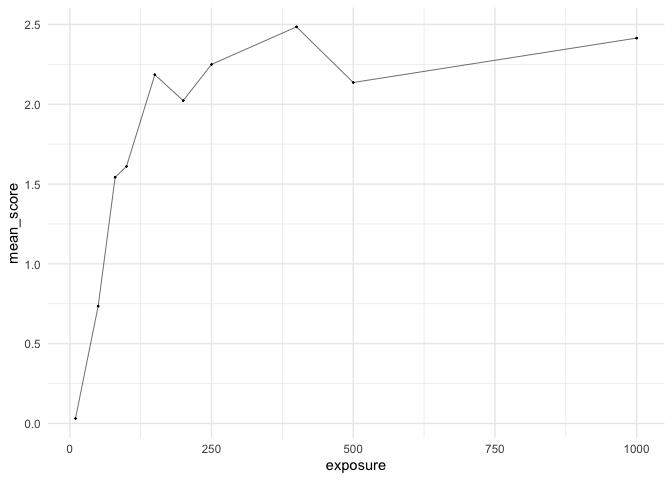
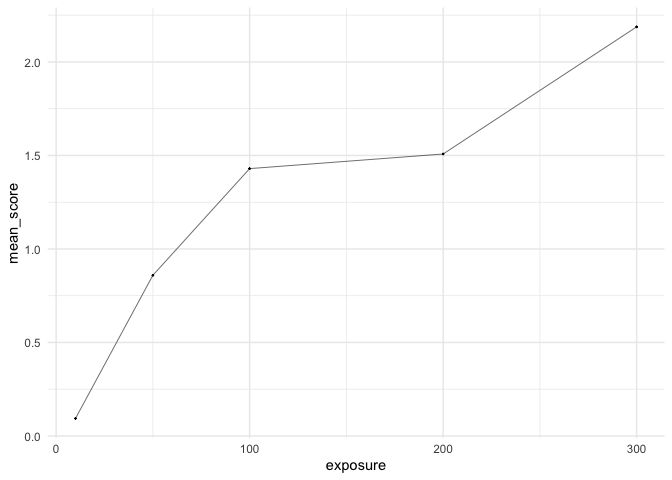
Update README

diff --git a/README.md b/README.md
@@ -25,16 +25,6 @@ Load the R package:
 
 ``` r
 library(RStanTVA)
-#> Loading required package: dplyr
-#> 
-#> Attaching package: 'dplyr'
-#> The following objects are masked from 'package:stats':
-#> 
-#>     filter, lag
-#> The following objects are masked from 'package:base':
-#> 
-#>     intersect, setdiff, setequal, union
-#> Loading required package: readr
 #> Loading required package: rstan
 #> Loading required package: StanHeaders
 #> 
@@ -46,34 +36,44 @@ library(RStanTVA)
 #> For within-chain threading using `reduce_sum()` or `map_rect()` Stan functions,
 #> change `threads_per_chain` option:
 #> rstan_options(threads_per_chain = 1)
-#> Loading required package: tidyr
-#> 
-#> Attaching package: 'tidyr'
-#> The following object is masked from 'package:rstan':
-#> 
-#>     extract
-#> Loading required package: tibble
-#> Loading required package: cli
+library(tidyverse)
+#> ── Attaching core tidyverse packages ──────────────────────── tidyverse 2.0.0 ──
+#> ✔ dplyr     1.1.4     ✔ readr     2.1.5
+#> ✔ forcats   1.0.0     ✔ stringr   1.5.1
+#> ✔ ggplot2   3.5.0     ✔ tibble    3.2.1
+#> ✔ lubridate 1.9.3     ✔ tidyr     1.3.1
+#> ✔ purrr     1.0.2
+#> ── Conflicts ────────────────────────────────────────── tidyverse_conflicts() ──
+#> ✖ tidyr::extract() masks rstan::extract()
+#> ✖ dplyr::filter()  masks stats::filter()
+#> ✖ dplyr::lag()     masks stats::lag()
+#> ℹ Use the conflicted package (<http://conflicted.r-lib.org/>) to force all conflicts to become errors
 ```
 
 Load example data from the parameter recovery study:
 
 ``` r
-tva_file_name <- file.path(find.package("RStanTVA"), "extdata", "recovery", paste0("recovery_120.dat"))
-tva_data <- read_tva_data(tva_file_name)
+tva_data <- tva_recovery %>% filter(subject == 20)
 tva_data
-#> TVA data containing 400 whole- and/or partial-report trial(s)
-#> Formal class 'tvadata' [package "RStanTVA"] with 1 slot
-#>   ..@ .Data:List of 8
-#>   .. ..$ : int [1:400] 11 29 54 16 51 27 2 43 34 52 ...
-#>   .. ..$ : int [1:400, 1:6] 1 1 1 1 1 0 0 0 0 0 ...
-#>   .. ..$ : int [1:400, 1:6] 0 0 0 0 1 0 0 0 0 0 ...
-#>   .. ..$ : chr [1:400, 1:6] "A" "I" "O" "N" ...
-#>   .. ..$ : num [1:400] 50 150 500 80 500 150 10 400 200 500 ...
-#>   .. ..$ : int [1:400, 1:6] 0 0 1 0 0 0 0 0 0 0 ...
-#>   .. ..$ : int 400
-#>   .. ..$ : int 6
-#>   ..$ names: chr [1:8] "condition" "S" "D" "items" ...
+#> # A tibble: 512 × 9
+#> # Groups:   subject [1]
+#>    subject trial     T condition type  S[,1]  [,2] D[,1] R[,1] true_values$t[,1]
+#>      <int> <int> <dbl> <fct>     <fct> <int> <int> <int> <int>             <dbl>
+#>  1      20     1    10 high      WR        1     1     0     0              26.1
+#>  2      20     2    10 low       WR        1     1     0     0              56.4
+#>  3      20     3    50 high      WR        1     1     0     0             139. 
+#>  4      20     4    50 high      PR        1     1     0     0              72.6
+#>  5      20     5    50 low       WR        1     1     0     0              62.9
+#>  6      20     6    50 low       PR        1     1     0     0              95.7
+#>  7      20     7   100 high      WR        1     1     0     1              37.8
+#>  8      20     8   100 high      PR        1     1     1     0             118. 
+#>  9      20     9   100 low       WR        1     1     0     0             125. 
+#> 10      20    10   100 low       PR        1     1     1     0              77.3
+#> # ℹ 502 more rows
+#> # ℹ 13 more variables: S[3:4] <int>, D[2:4] <int>, R[2:4] <int>,
+#> #   true_values$t[2:6] <dbl>, true_values$v <dbl[,6]>, $t0 <dbl>, $K <int>,
+#> #   $C <dbl>, $alpha <dbl>, $w <dbl[,4]>, $mu0 <dbl>, $sigma0 <dbl>,
+#> #   $pK <dbl[,5]>
 ```
 
 Create a report and visualize the scores:
@@ -81,31 +81,21 @@ Create a report and visualize the scores:
 ``` r
 tva_data_report <- tva_report(tva_data)
 tva_data_report
-#> # A tibble: 400 × 6
+#> # A tibble: 512 × 6
 #>    condition exposure score n_items n_distractors n_targets
-#>        <int>    <dbl> <int>   <int>         <int>     <int>
-#>  1        11       50     0       6             3         3
-#>  2        29      150     2       6             3         3
-#>  3        54      500     6       6             0         6
-#>  4        16       80     1       4             0         4
-#>  5        51      500     2       4             2         2
-#>  6        27      150     2       4             2         2
-#>  7         2       10     0       2             0         2
-#>  8        43      400     1       2             1         1
-#>  9        34      200     3       4             0         4
-#> 10        52      500     3       4             0         4
-#> # ℹ 390 more rows
+#>    <fct>        <dbl> <int>   <int>         <int>     <int>
+#>  1 high            10     0       4             0         4
+#>  2 low             10     0       4             0         4
+#>  3 high            50     1       4             0         4
+#>  4 high            50     0       4             2         2
+#>  5 low             50     1       4             0         4
+#>  6 low             50     0       4             2         2
+#>  7 high           100     4       4             0         4
+#>  8 high           100     0       4             2         2
+#>  9 low            100     2       4             0         4
+#> 10 low            100     2       4             2         2
+#> # ℹ 502 more rows
 
-library(tidyverse)
-#> ── Attaching core tidyverse packages ──────────────────────── tidyverse 2.0.0 ──
-#> ✔ forcats   1.0.0     ✔ purrr     1.0.2
-#> ✔ ggplot2   3.5.0     ✔ stringr   1.5.1
-#> ✔ lubridate 1.9.3     
-#> ── Conflicts ────────────────────────────────────────── tidyverse_conflicts() ──
-#> ✖ tidyr::extract() masks rstan::extract()
-#> ✖ dplyr::filter()  masks stats::filter()
-#> ✖ dplyr::lag()     masks stats::lag()
-#> ℹ Use the conflicted package (<http://conflicted.r-lib.org/>) to force all conflicts to become errors
 
 tva_data_report %>%
   group_by(exposure) %>%
@@ -125,44 +115,42 @@ Gaussian $t_0$ and a free $K$ distribution:
 library(RStanTVA)
 
 tva_model <- stantva_model(
-  location = 6,
+  location = 4,
   task = "pr",
   w_mode = "locations",
   t0_mode = "gaussian",
   K_mode = "free",
-  predict = TRUE
+  sanity_checks = FALSE,
+  priors = FALSE
 )
 #> Trying to compile a simple C file
 #> Running /Library/Frameworks/R.framework/Resources/bin/R CMD SHLIB foo.c
-#> using C compiler: ‘Apple clang version 15.0.0 (clang-1500.3.9.4)’
-#> using SDK: ‘MacOSX14.4.sdk’
+#> using C compiler: ‘Apple clang version 16.0.0 (clang-1600.0.26.4)’
+#> using SDK: ‘MacOSX15.1.sdk’
 #> clang -arch arm64 -I"/Library/Frameworks/R.framework/Resources/include" -DNDEBUG   -I"/Library/Frameworks/R.framework/Versions/4.3-arm64/Resources/library/Rcpp/include/"  -I"/Library/Frameworks/R.framework/Versions/4.3-arm64/Resources/library/RcppEigen/include/"  -I"/Library/Frameworks/R.framework/Versions/4.3-arm64/Resources/library/RcppEigen/include/unsupported"  -I"/Library/Frameworks/R.framework/Versions/4.3-arm64/Resources/library/BH/include" -I"/Library/Frameworks/R.framework/Versions/4.3-arm64/Resources/library/StanHeaders/include/src/"  -I"/Library/Frameworks/R.framework/Versions/4.3-arm64/Resources/library/StanHeaders/include/"  -I"/Library/Frameworks/R.framework/Versions/4.3-arm64/Resources/library/RcppParallel/include/"  -I"/Library/Frameworks/R.framework/Versions/4.3-arm64/Resources/library/rstan/include" -DEIGEN_NO_DEBUG  -DBOOST_DISABLE_ASSERTS  -DBOOST_PENDING_INTEGER_LOG2_HPP  -DSTAN_THREADS  -DUSE_STANC3 -DSTRICT_R_HEADERS  -DBOOST_PHOENIX_NO_VARIADIC_EXPRESSION  -D_HAS_AUTO_PTR_ETC=0  -include '/Library/Frameworks/R.framework/Versions/4.3-arm64/Resources/library/StanHeaders/include/stan/math/prim/fun/Eigen.hpp'  -D_REENTRANT -DRCPP_PARALLEL_USE_TBB=1   -I/opt/R/arm64/include    -fPIC  -falign-functions=64 -Wall -g -O2  -c foo.c -o foo.o
 #> In file included from <built-in>:1:
 #> In file included from /Library/Frameworks/R.framework/Versions/4.3-arm64/Resources/library/StanHeaders/include/stan/math/prim/fun/Eigen.hpp:22:
 #> In file included from /Library/Frameworks/R.framework/Versions/4.3-arm64/Resources/library/RcppEigen/include/Eigen/Dense:1:
 #> In file included from /Library/Frameworks/R.framework/Versions/4.3-arm64/Resources/library/RcppEigen/include/Eigen/Core:19:
 #> /Library/Frameworks/R.framework/Versions/4.3-arm64/Resources/library/RcppEigen/include/Eigen/src/Core/util/Macros.h:679:10: fatal error: 'cmath' file not found
-#> #include <cmath>
-#>          ^~~~~~~
+#>   679 | #include <cmath>
+#>       |          ^~~~~~~
 #> 1 error generated.
 #> make: *** [foo.o] Error 1
 
 tva_model
-#> StanTVA model with following configuration:
-#>   - locations = 6 
-#>   - task = "pr" 
-#>   - regions = list() 
-#>   - C_mode = "equal" 
-#>   - w_mode = "locations" 
-#>   - t0_mode = "gaussian" 
-#>   - K_mode = "free" 
-#>   - parallel = FALSE 
-#>   - save_log_lik = FALSE 
-#>   - predict_scores = TRUE 
-#>   - priors = FALSE 
-#>   - sanity_checks = FALSE 
-#>   - simulate = FALSE 
-#>   - type = "stan"
+#> StanTVA model with 6 free parameter(s) and the following configuration:
+#>   - locations = 4
+#>   - task = "pr"
+#>   - regions = list()
+#>   - C_mode = "equal"
+#>   - w_mode = "locations"
+#>   - t0_mode = "gaussian"
+#>   - K_mode = "free"
+#>   - parallel = FALSE
+#>   - save_log_lik = FALSE
+#>   - priors = FALSE
+#>   - sanity_checks = FALSE
 ```
 
 The generated Stan model looks like this:
@@ -178,7 +166,8 @@ The generated Stan model looks like this:
  *  
  *  Configuration
  *  =============
- *  - locations = 6
+ *  - formula = NULL
+ *  - locations = 4
  *  - task = pr
  *  - regions = list()
  *  - C_mode = equal
@@ -187,11 +176,8 @@ The generated Stan model looks like this:
  *  - K_mode = free
  *  - parallel = FALSE
  *  - save_log_lik = FALSE
- *  - predict_scores = TRUE
  *  - priors = FALSE
  *  - sanity_checks = FALSE
- *  - simulate = FALSE
- *  - type = stan
  *  
  *  License
  *  =======
@@ -203,34 +189,29 @@ functions {
     #include tva.stan
     #include freeK.stan
     #include gaussiant0.stan
-    vector calculate_v(int nS, array[] int S, array[] int D, vector w, vector s, real alpha) {
+    vector calculate_v(data int nS, data array[] int S, data array[] int D, vector w, real C, real alpha) {
+        vector[4] s = rep_vector(C, 4);
         array[nS] int Ss = get_matches(S);
-        vector[6] w_alpha = w;
-        for(i in 1:6) if(D[i]) w_alpha[i] *= alpha;
+        vector[4] w_alpha = w;
+        for(i in 1:4) if(D[i]) w_alpha[i] *= alpha;
         vector[nS] v = s[Ss] .* w_alpha[Ss] / sum(w_alpha[Ss]);
         for(i in 1:nS) if(v[i] < machine_precision()) v[i] = machine_precision();
         return v/1000.0;
     }
-    real log_lik_single(array[] int S, array[] int D, array[] int R, int nS, real T, vector w, vector s, real alpha, vector pK, real mu0, real sigma0) {
-        vector[nS] v = calculate_v(nS, S, D, w, s, alpha);
-        return tva_pr_log(R, S, D, T, [mu0, sigma0]', pK, v);
-    }
-    vector predict_score_single(array[] int S, array[] int D, int nS, real T, vector w, vector s, real alpha, vector pK, real mu0, real sigma0) {
-        vector[7] p;
-        for(i in 0:5) {
-            vector[nS] v = calculate_v(nS, S, D, w, s, alpha);
-            p[i+1] = exp(tva_pr_score_log(i, S, D, T, [mu0, sigma0]', pK, v));
-        }
-        p[7] = 1.0 - sum(p[:6]);
-        return p;
+    real log_lik_single(data array[] int S, data array[] int D, data array[] int R, data int nS, data real T, vector w, real C, real alpha, vector pK, real mu0, real sigma0) {
+        real log_lik;
+        vector[nS] v = calculate_v(nS, S, D, to_vector(w), C, alpha);
+        log_lik = tva_pr_log(R, S, D, T, [mu0, sigma0]', pK, v);
+        if(0 && log_lik == negative_infinity()) print("logLik(S=",S,",D=",D,",R=",R,",nS=",nS,",T=",T,"|to_vector(w)=",to_vector(w),",C=",C,",alpha=",alpha,",to_vector(pK)=",to_vector(pK),",mu0=",mu0,",sigma0=",sigma0,") = -inf !");
+        return log_lik;
     }
 }
 data {
     int<lower=1> N;
     array[N] real<lower=0> T;
-    array[N,6] int<lower=0,upper=1> S;
-    array[N,6] int<lower=0,upper=1> R;
-    array[N,6] int<lower=0,upper=1> D;
+    array[N,4] int<lower=0,upper=1> S;
+    array[N,4] int<lower=0,upper=1> R;
+    array[N,4] int<lower=0,upper=1> D;
 }
 transformed data {
     array[N] int nS;
@@ -239,27 +220,17 @@ transformed data {
 }
 parameters {
     real<lower=machine_precision()> C;
-    simplex[6] w;
-    simplex[7] pK;
+    simplex[4] w;
+    simplex[5] pK;
     real mu0;
     real<lower=machine_precision()> sigma0;
     real<lower=machine_precision()> alpha;
 }
-transformed parameters {
-    vector[6] s;
-    s = rep_vector(C, 6);
-}
 model {
     // likelihood (only if prior != 0)
     if(target() != negative_infinity()) {
-        for(i in 1:N) target += log_lik_single(S[i], D[i], R[i], nS[i], T[i], w, s, alpha, pK, mu0, sigma0);
+        for(i in 1:N) target += log_lik_single(S[i], D[i], R[i], nS[i], T[i], to_vector(w), C, alpha, to_vector(pK), mu0, sigma0);
     }
-}
-generated quantities {
-    real mK = 1 * pK[2] + 2 * pK[3] + 3 * pK[4] + 4 * pK[5] + 5 * pK[6] + 6 * pK[7];
-    // scores
-    matrix[N,7] pred_scores;
-    for(i in 1:N) pred_scores[i,] = to_row_vector(predict_score_single(S[i], D[i], nS[i], T[i], w, s, alpha, pK, mu0, sigma0));
 }
 ```
 
@@ -270,33 +241,15 @@ Fit `tva_model` to the `tva_data` using maximum-likelihood estimation
 tva_fit <- optimizing(tva_model, tva_data)
 str(tva_fit)
 #> List of 4
-#>  $ par        : Named num [1:2824] 125.4605 0.2333 0.0457 0.1721 0.0431 ...
-#>   ..- attr(*, "names")= chr [1:2824] "C" "w[1]" "w[2]" "w[3]" ...
-#>  $ value      : num -527
+#>  $ par        : Named num [1:13] 87.008 0.302 0.298 0.189 0.211 ...
+#>   ..- attr(*, "names")= chr [1:13] "C" "w[1]" "w[2]" "w[3]" ...
+#>  $ value      : num -931
 #>  $ return_code: int 0
-#>  $ theta_tilde: num [1, 1:2824] 125.4605 0.2333 0.0457 0.1721 0.0431 ...
+#>  $ theta_tilde: num [1, 1:13] 87.008 0.302 0.298 0.189 0.211 ...
 #>   ..- attr(*, "dimnames")=List of 2
 #>   .. ..$ : NULL
-#>   .. ..$ : chr [1:2824] "C" "w[1]" "w[2]" "w[3]" ...
-tva_fit$par[c("C","alpha","mu0","sigma0","mK")]
-#>          C      alpha        mu0     sigma0         mK 
-#> 125.460482   1.967497  40.408641  21.744538   4.257565
+#>   .. ..$ : chr [1:13] "C" "w[1]" "w[2]" "w[3]" ...
+tva_fit$par[c("C","alpha","mu0","sigma0")]
+#>          C      alpha        mu0     sigma0 
+#> 87.0082930  0.6165499 24.3496886 14.5934136
 ```
-
-Predicted scores vs. empirical scores:
-
-``` r
-tva_data_report %>% 
-  mutate(pred_score = tva_fit$par[sprintf("pred_scores[%d,2]",seq_len(n()))] + 2*tva_fit$par[sprintf("pred_scores[%d,3]",seq_len(n()))]+3*tva_fit$par[sprintf("pred_scores[%d,4]",seq_len(n()))]+4*tva_fit$par[sprintf("pred_scores[%d,5]",seq_len(n()))]+5*tva_fit$par[sprintf("pred_scores[%d,6]",seq_len(n()))]+6*tva_fit$par[sprintf("pred_scores[%d,7]",seq_len(n()))]) %>%
-  pivot_longer(c(score,pred_score), names_to = "type", values_to = "score") %>%
-  group_by(exposure,type) %>%
-  summarize(score = mean(score)) %>%
-  ggplot(aes(exposure, score, color = type, group = type)) +
-  theme_minimal() +
-  geom_point(size = 0.2) +
-  geom_line(linewidth = 0.2)
-#> `summarise()` has grouped output by 'exposure'. You can override using the
-#> `.groups` argument.
-```
-
-<img src="man/figures/README-example-predict-1.png" width="100%" />
